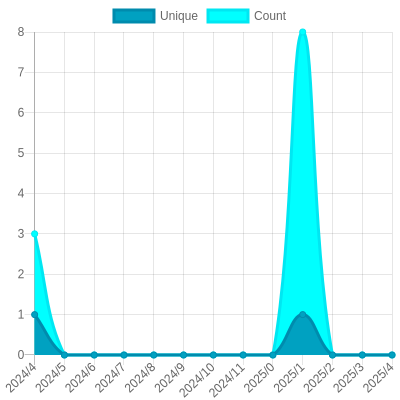
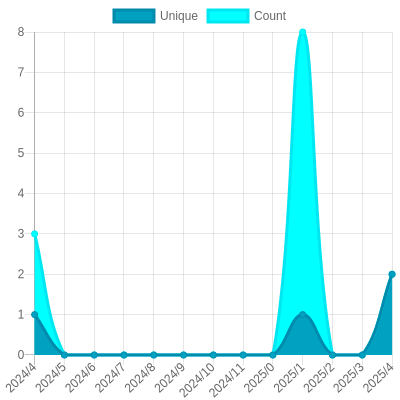
Update views

Changed region(s): [[0.9, 0.66, 0.99, 0.9]]

diff --git a/readme/418817437/year.md b/readme/418817437/year.md
@@ -23,10 +23,10 @@
 			<code>2024/5/1</code>
 		</td>
 		<td>
-			<code>0</code>
+			<code>2</code>
 		</td>
 		<td>
-			<code>0</code>
+			<code>2</code>
 		</td>
 	</tr>
 	<tr>
@@ -164,7 +164,7 @@
 </table>
 
 </details>
-<small><i>Last updated on 2024/5/17 12:19 PM UTC</i></small>
+<small><i>Last updated on 2024/5/17 6:14 PM UTC</i></small>
 
 ## ✂Copy and 📋 Paste
 ### SVG Badge

diff --git a/README.md b/README.md
@@ -53,7 +53,7 @@ The project created and maintained by [gayanvoice](https://github.com/gayanvoice
 	</tr>
 </table>
 
-<small><i>Last updated on 2024/5/17 12:19 PM UTC</i></small>
+<small><i>Last updated on 2024/5/17 6:14 PM UTC</i></small>
 
 ## ✂Copy and 📋 Paste
 ### Total Views Badge

diff --git a/readme/418835839/year.md b/readme/418835839/year.md
@@ -164,7 +164,7 @@
 </table>
 
 </details>
-<small><i>Last updated on 2024/5/17 12:19 PM UTC</i></small>
+<small><i>Last updated on 2024/5/17 6:14 PM UTC</i></small>
 
 ## ✂Copy and 📋 Paste
 ### SVG Badge
